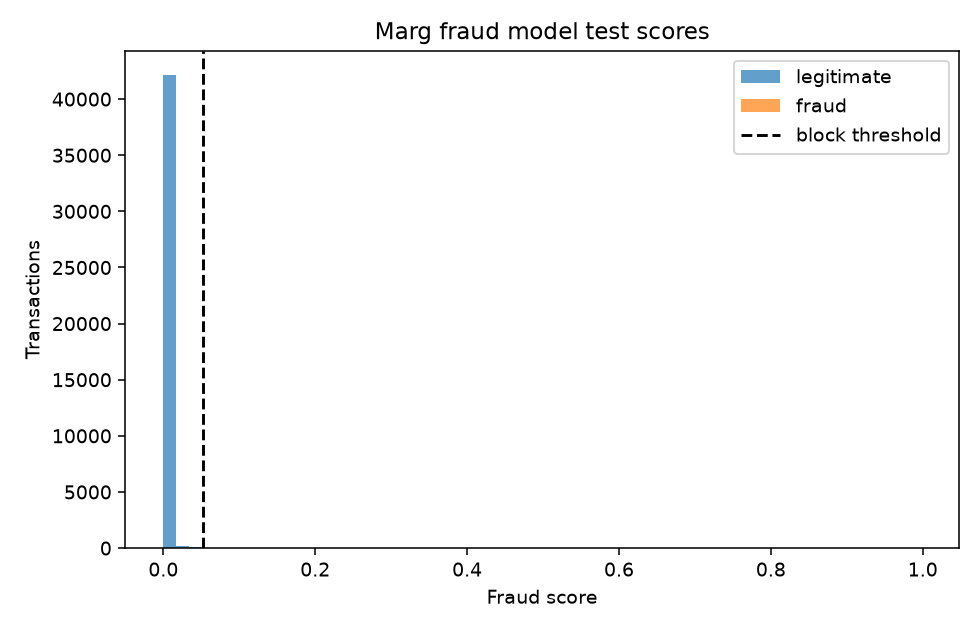
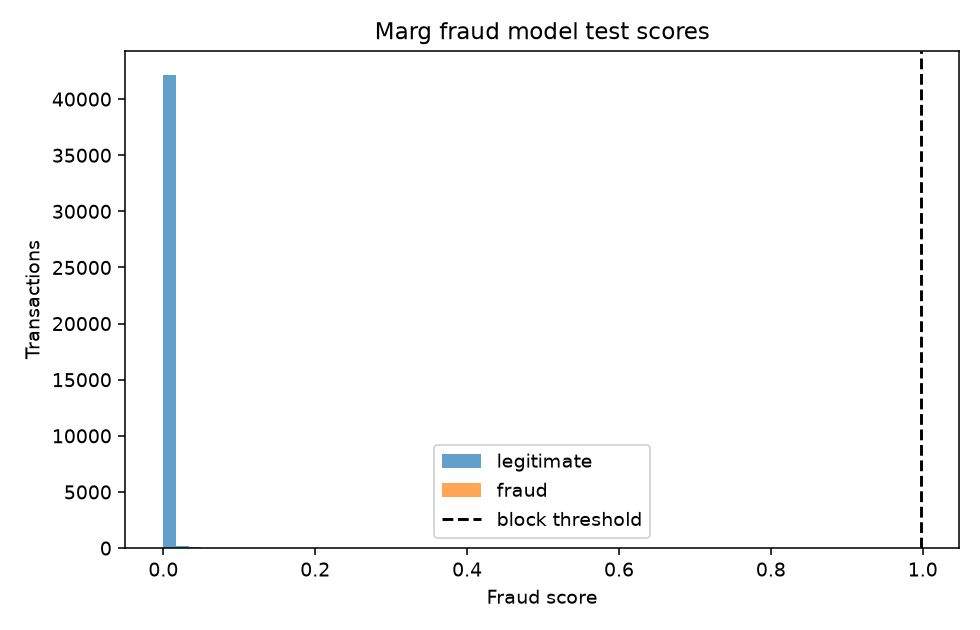
fraud: select cost-aware thresholds under review capacity

Changed region(s): [[0.4286, 0.6937, 0.6735, 0.8746], [0.7347, 0.0905, 0.9796, 0.181], [0.7347, 0.181, 0.9796, 0.2714]]

diff --git a/src/marg/fraud/train.py b/src/marg/fraud/train.py
@@ -19,6 +19,7 @@ from sklearn.metrics import (
 )
 
 from marg.fraud.data import FEATURES, LABEL, load_creditcard, time_split
+from marg.fraud.thresholds import evaluate_cost_policy, select_cost_thresholds
 
 ROOT = Path(__file__).resolve().parents[3]
 
@@ -34,15 +35,18 @@ def recall_at_fpr(y_true: np.ndarray, scores: np.ndarray, max_fpr: float = 0.01)
     return float(tpr[i]), threshold
 
 
-def train(path: str | Path = "data/creditcard.csv", seed: int = 7) -> dict:
+def train(path: str | Path = "data/creditcard.csv", seed: int = 7,
+          max_review_rate: float = 0.01, review_cost_amount_units: float = 1.0) -> dict:
     frame = load_creditcard(path)
     train_df, val_df, test_df = time_split(frame)
     x_train = train_df[FEATURES].to_numpy(dtype=np.float32)
     y_train = train_df[LABEL].to_numpy(dtype=np.int8)
     x_val = val_df[FEATURES].to_numpy(dtype=np.float32)
     y_val = val_df[LABEL].to_numpy(dtype=np.int8)
+    amount_val = val_df["Amount"].to_numpy(dtype=np.float64)
     x_test = test_df[FEATURES].to_numpy(dtype=np.float32)
     y_test = test_df[LABEL].to_numpy(dtype=np.int8)
+    amount_test = test_df["Amount"].to_numpy(dtype=np.float64)
     positives = int(y_train.sum())
     model = LGBMClassifier(n_estimators=250, learning_rate=0.05, num_leaves=31,
                            max_depth=-1, scale_pos_weight=(len(y_train) - positives) / positives,
@@ -52,8 +56,9 @@ def train(path: str | Path = "data/creditcard.csv", seed: int = 7) -> dict:
                            random_state=seed, n_jobs=4, verbosity=-1)
     model.fit(x_train, y_train)
     val_scores = model.predict_proba(x_val)[:, 1]
-    _, block_threshold = recall_at_fpr(y_val, val_scores, 0.01)
-    _, review_threshold = recall_at_fpr(y_val, val_scores, 0.05)
+    cost_thresholds = select_cost_thresholds(
+        y_val, val_scores, amount_val, max_review_rate, review_cost_amount_units)
+    block_threshold, review_threshold = cost_thresholds.block, cost_thresholds.review
     validation_block_fpr = float(np.mean(
         (val_scores >= block_threshold) & (y_val == 0))) / max(float(np.mean(y_val == 0)), 1e-12)
     validation_review_fpr = float(np.mean(
@@ -61,6 +66,12 @@ def train(path: str | Path = "data/creditcard.csv", seed: int = 7) -> dict:
     test_scores = model.predict_proba(x_test)[:, 1]
     test_recall, _ = recall_at_fpr(y_test, test_scores, 0.01)
     y_pred = (test_scores >= block_threshold).astype(np.int8)
+    validation_cost = evaluate_cost_policy(
+        y_val, val_scores, amount_val, review_threshold, block_threshold,
+        review_cost_amount_units)
+    test_cost = evaluate_cost_policy(
+        y_test, test_scores, amount_test, review_threshold, block_threshold,
+        review_cost_amount_units)
     precision, recall, _ = precision_recall_curve(y_test, test_scores)
     models_dir = ROOT / "models"
     results_dir = ROOT / "results"
@@ -69,7 +80,11 @@ def train(path: str | Path = "data/creditcard.csv", seed: int = 7) -> dict:
     joblib.dump(model, models_dir / "fraud_model.joblib")
     (models_dir / "thresholds.json").write_text(json.dumps({
         "block": float(block_threshold), "review": float(review_threshold),
-        "validation_target_fpr": {"block": 0.01, "review": 0.05}}, indent=2))
+        "selection": "validation amount-weighted cost with review capacity",
+        "max_review_rate": max_review_rate,
+        "review_cost_amount_units": review_cost_amount_units,
+        "validation_cost_amount_units": validation_cost["total_cost_amount_units"],
+        "validation_review_count": validation_cost["review_count"]}, indent=2))
     metrics = {
         "dataset": "real Kaggle Credit Card Fraud Detection via Zenodo mirror",
         "dataset_path": str(Path(path)), "rows": len(frame), "fraud_rate": float(frame[LABEL].mean()),
@@ -80,6 +95,15 @@ def train(path: str | Path = "data/creditcard.csv", seed: int = 7) -> dict:
         "pr_auc": float(average_precision_score(y_test, test_scores)),
         "recall_at_1pct_fpr": test_recall,
         "precision_at_block_threshold": float(precision_score(y_test, y_pred, zero_division=0)),
+        "cost_policy": {
+            "selection_period": "validation; test is a strictly newer time period",
+            "amount_interpretation": "dataset Amount units; currency and actual fraud loss are unknown",
+            "review_assumption": "manual review resolves fraud without further loss",
+            "max_review_rate": max_review_rate,
+            "review_cost_amount_units": review_cost_amount_units,
+            "validation": validation_cost,
+            "newer_test_period": test_cost,
+        },
         "confusion_matrix": confusion_matrix(y_test, y_pred).tolist(),
         "block_threshold": float(block_threshold), "review_threshold": float(review_threshold),
         "validation_fpr_at_block_threshold": validation_block_fpr,
@@ -115,8 +139,11 @@ def main() -> None:
     parser = argparse.ArgumentParser()
     parser.add_argument("--data", default="data/creditcard.csv")
     parser.add_argument("--seed", type=int, default=7)
+    parser.add_argument("--max-review-rate", type=float, default=0.01)
+    parser.add_argument("--review-cost-amount-units", type=float, default=1.0)
     args = parser.parse_args()
-    print(json.dumps(train(args.data, args.seed), indent=2))
+    print(json.dumps(train(args.data, args.seed, args.max_review_rate,
+                          args.review_cost_amount_units), indent=2))
 
 
 if __name__ == "__main__":

diff --git a/src/marg/fraud/thresholds.py b/src/marg/fraud/thresholds.py
@@ -1,0 +1,111 @@
+from __future__ import annotations
+
+from dataclasses import asdict, dataclass
+
+import numpy as np
+from numpy.typing import NDArray
+
+
+@dataclass(frozen=True)
+class CostThresholds:
+    review: float
+    block: float
+    max_review_rate: float
+    review_cost_amount_units: float
+    candidate_count: int
+    validation_cost_amount_units: float
+    validation_review_count: int
+
+    def to_dict(self) -> dict[str, float | int]:
+        return asdict(self)
+
+
+def evaluate_cost_policy(
+    labels: NDArray[np.integer],
+    scores: NDArray[np.floating],
+    amounts: NDArray[np.floating],
+    review_threshold: float,
+    block_threshold: float,
+    review_cost_amount_units: float,
+) -> dict[str, float | int]:
+    """Score allow/review/block decisions using transaction Amount as a loss proxy."""
+    reviewed = (scores >= review_threshold) & (scores < block_threshold)
+    blocked = scores >= block_threshold
+    missed_fraud = (labels == 1) & (scores < review_threshold)
+    false_blocks = (labels == 0) & blocked
+    missed_amount = float(amounts[missed_fraud].sum())
+    false_block_amount = float(amounts[false_blocks].sum())
+    review_cost = int(reviewed.sum()) * review_cost_amount_units
+    return {
+        "total_cost_amount_units": missed_amount + false_block_amount + review_cost,
+        "missed_fraud_amount_units": missed_amount,
+        "false_block_amount_units": false_block_amount,
+        "review_cost_amount_units": review_cost,
+        "review_count": int(reviewed.sum()),
+        "review_rate": float(reviewed.mean()) if len(reviewed) else 0.0,
+        "false_block_count": int(false_blocks.sum()),
+        "missed_fraud_count": int(missed_fraud.sum()),
+    }
+
+
+def select_cost_thresholds(
+    labels: NDArray[np.integer],
+    scores: NDArray[np.floating],
+    amounts: NDArray[np.floating],
+    max_review_rate: float = 0.01,
+    review_cost_amount_units: float = 1.0,
+    grid_size: int = 201,
+) -> CostThresholds:
+    """Choose validation thresholds by minimum amount-weighted cost under review capacity."""
+    if not 0.0 <= max_review_rate <= 1.0:
+        raise ValueError("max_review_rate must be between zero and one")
+    if not np.isfinite(review_cost_amount_units) or review_cost_amount_units < 0.0:
+        raise ValueError("review_cost_amount_units must be finite and nonnegative")
+    if grid_size < 2 or len(labels) == 0 or len(scores) != len(labels) or len(amounts) != len(labels):
+        raise ValueError("threshold selection requires aligned nonempty arrays and grid_size >= 2")
+    if (not np.isfinite(scores).all() or not np.isfinite(amounts).all()
+            or np.any((scores < 0.0) | (scores > 1.0)) or np.any(amounts < 0.0)
+            or np.any((labels != 0) & (labels != 1))):
+        raise ValueError("scores, labels, or amounts contain invalid values")
+
+    candidates = np.unique(np.quantile(scores, np.linspace(0.0, 1.0, grid_size)))
+    # Include a finite threshold above every observed score so all-allow/all-review policies exist.
+    candidates = np.append(candidates, np.nextafter(float(scores.max()), np.inf))
+    order = np.argsort(scores, kind="stable")
+    ordered_scores = scores[order]
+    fraud_amount = np.where(labels[order] == 1, amounts[order], 0.0)
+    legitimate_amount = np.where(labels[order] == 0, amounts[order], 0.0)
+    fraud_prefix = np.concatenate(([0.0], np.cumsum(fraud_amount)))
+    legitimate_prefix = np.concatenate(([0.0], np.cumsum(legitimate_amount)))
+    positions = np.searchsorted(ordered_scores, candidates, side="left")
+    max_reviews = int(np.floor(max_review_rate * len(labels)))
+
+    best: tuple[float, int, float, float] | None = None
+    for review_index, review_threshold in enumerate(candidates):
+        review_position = int(positions[review_index])
+        missed_amount = float(fraud_prefix[review_position])
+        for block_index in range(review_index, len(candidates)):
+            block_threshold = float(candidates[block_index])
+            block_position = int(positions[block_index])
+            review_count = block_position - review_position
+            if review_count > max_reviews:
+                continue
+            false_block_amount = float(legitimate_prefix[-1] - legitimate_prefix[block_position])
+            cost = (missed_amount + false_block_amount
+                    + review_count * review_cost_amount_units)
+            proposal = (cost, review_count, float(review_threshold), block_threshold)
+            if best is None or proposal < best:
+                best = proposal
+
+    if best is None:
+        raise RuntimeError("no thresholds satisfy the configured review capacity")
+    cost, review_count, review_threshold, block_threshold = best
+    return CostThresholds(
+        review=review_threshold,
+        block=block_threshold,
+        max_review_rate=max_review_rate,
+        review_cost_amount_units=review_cost_amount_units,
+        candidate_count=len(candidates),
+        validation_cost_amount_units=cost,
+        validation_review_count=review_count,
+    )

diff --git a/tests/test_fraud.py b/tests/test_fraud.py
@@ -2,6 +2,7 @@ import numpy as np
 import pandas as pd
 
 from marg.fraud.data import LABEL, time_split
+from marg.fraud.thresholds import evaluate_cost_policy, select_cost_thresholds
 from marg.fraud.train import recall_at_fpr
 
 
@@ -21,3 +22,28 @@ def test_fpr_threshold_is_finite_when_only_reject_all_meets_target():
                                      np.array([0.8, 0.7, 0.1, 0.2]), 0.01)
     assert recall == 0.0
     assert np.isfinite(threshold) and threshold > 0.8
+
+
+def test_cost_thresholds_obey_validation_review_capacity_and_report_newer_period_cost():
+    validation_labels = np.array([1, 0, 1, 0], dtype=np.int8)
+    validation_scores = np.array([0.9, 0.9, 0.2, 0.1])
+    validation_amounts = np.array([100.0, 100.0, 50.0, 50.0])
+    policy = select_cost_thresholds(
+        validation_labels, validation_scores, validation_amounts,
+        max_review_rate=0.5, review_cost_amount_units=1.0, grid_size=5)
+    validation = evaluate_cost_policy(
+        validation_labels, validation_scores, validation_amounts,
+        policy.review, policy.block, policy.review_cost_amount_units)
+
+    newer_labels = np.array([1, 0], dtype=np.int8)
+    newer_scores = np.array([0.3, 0.85])
+    newer_amounts = np.array([70.0, 30.0])
+    newer_period = evaluate_cost_policy(
+        newer_labels, newer_scores, newer_amounts,
+        policy.review, policy.block, policy.review_cost_amount_units)
+
+    assert validation["review_count"] == 2
+    assert validation["total_cost_amount_units"] == policy.validation_cost_amount_units
+    assert validation["total_cost_amount_units"] < validation_amounts[validation_labels == 1].sum()
+    assert newer_period["missed_fraud_count"] == 1
+    assert newer_period["total_cost_amount_units"] == 71.0
